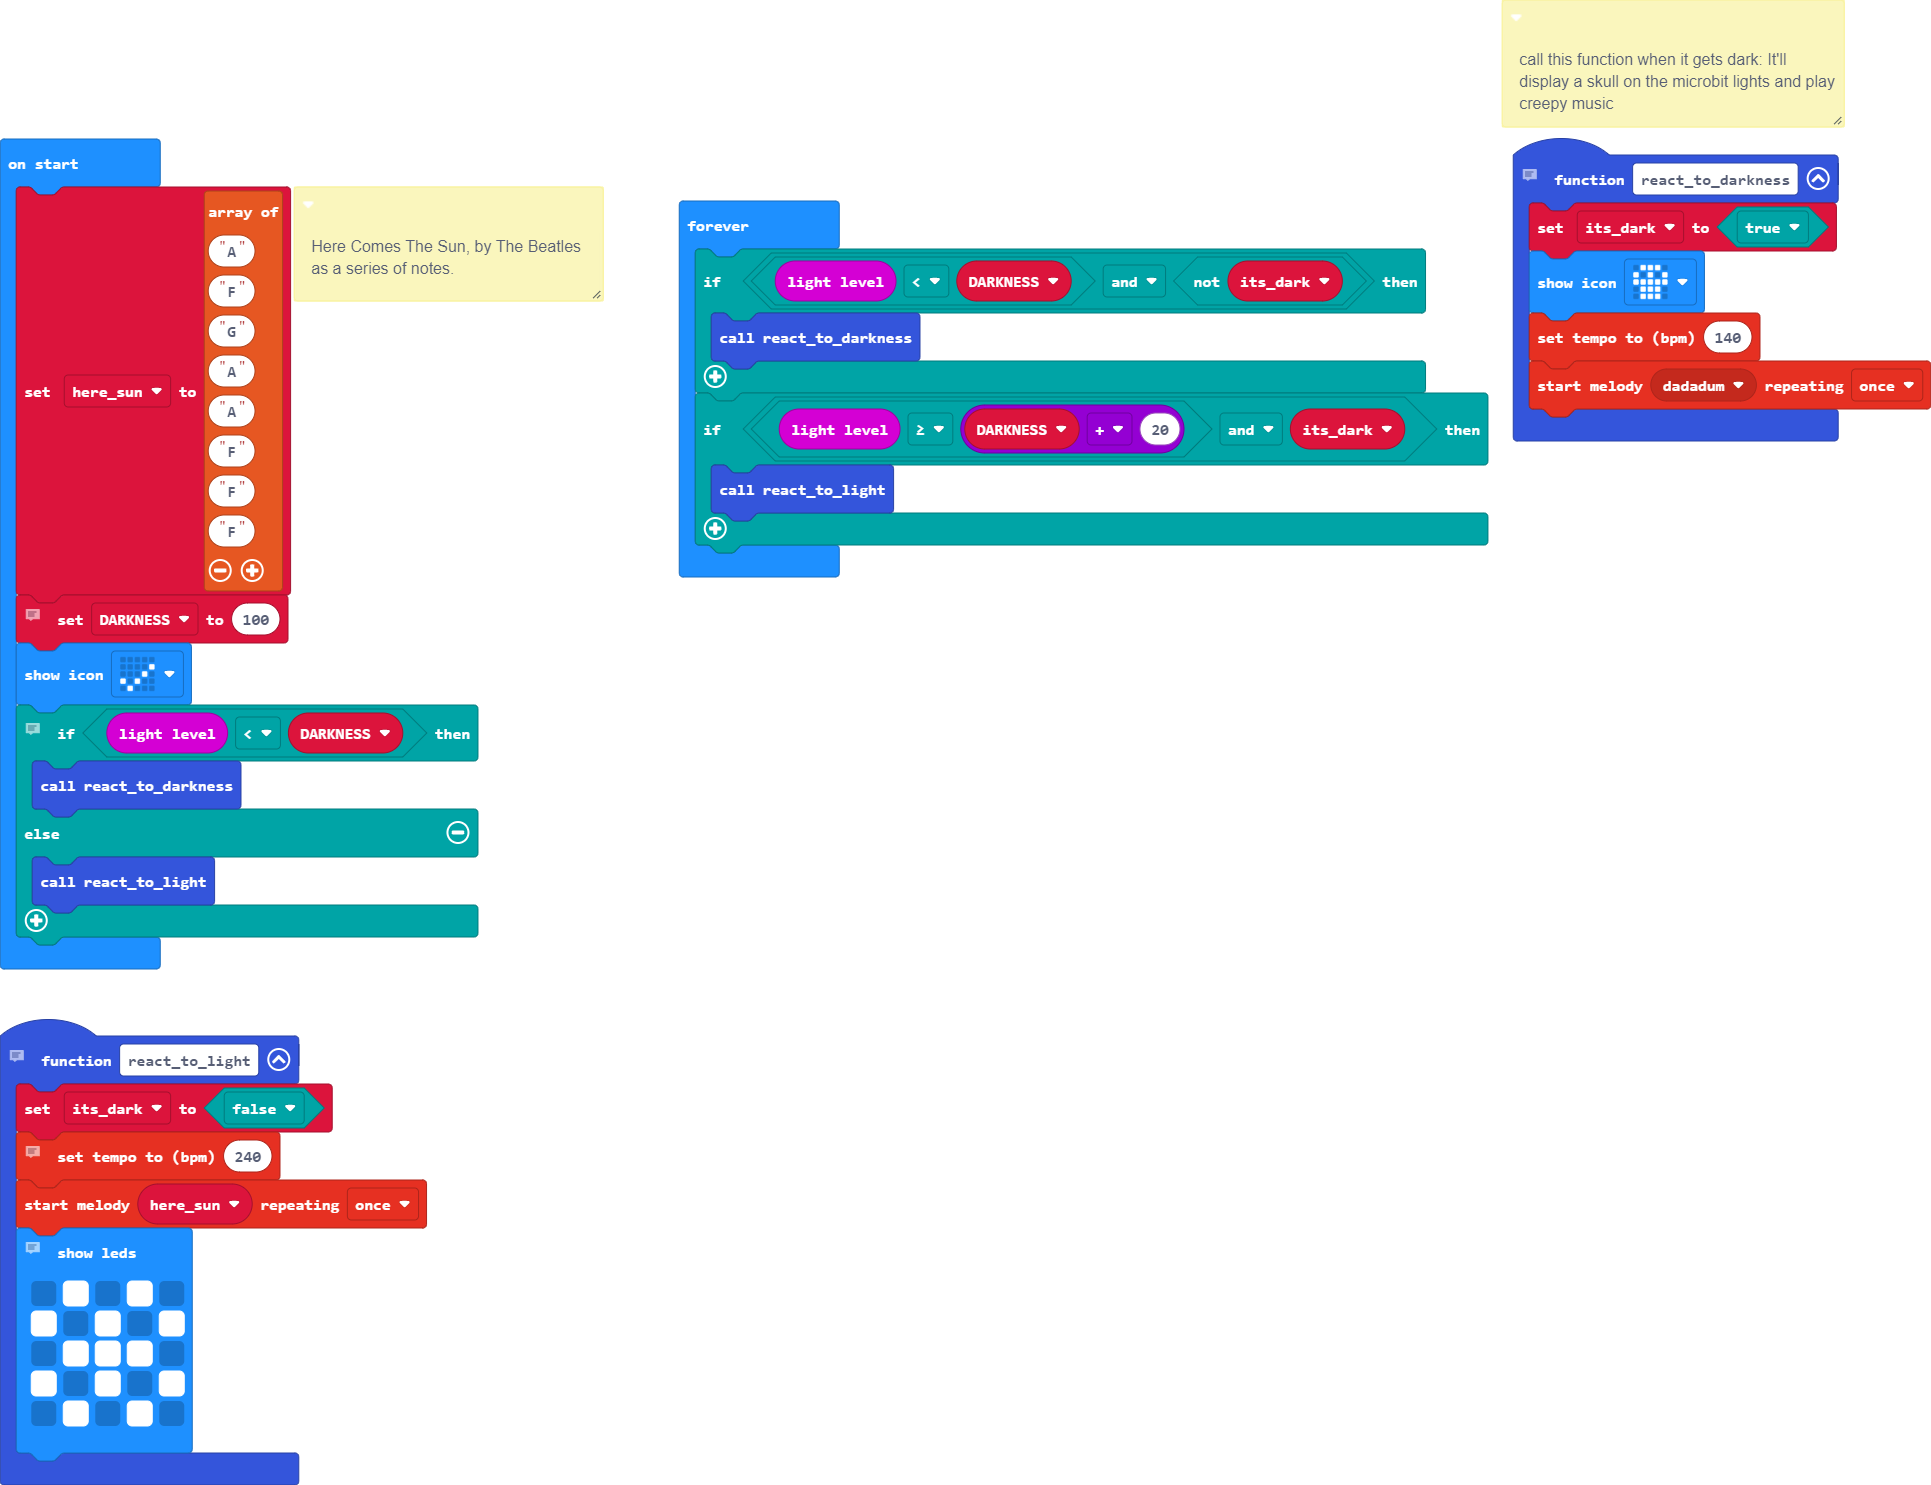
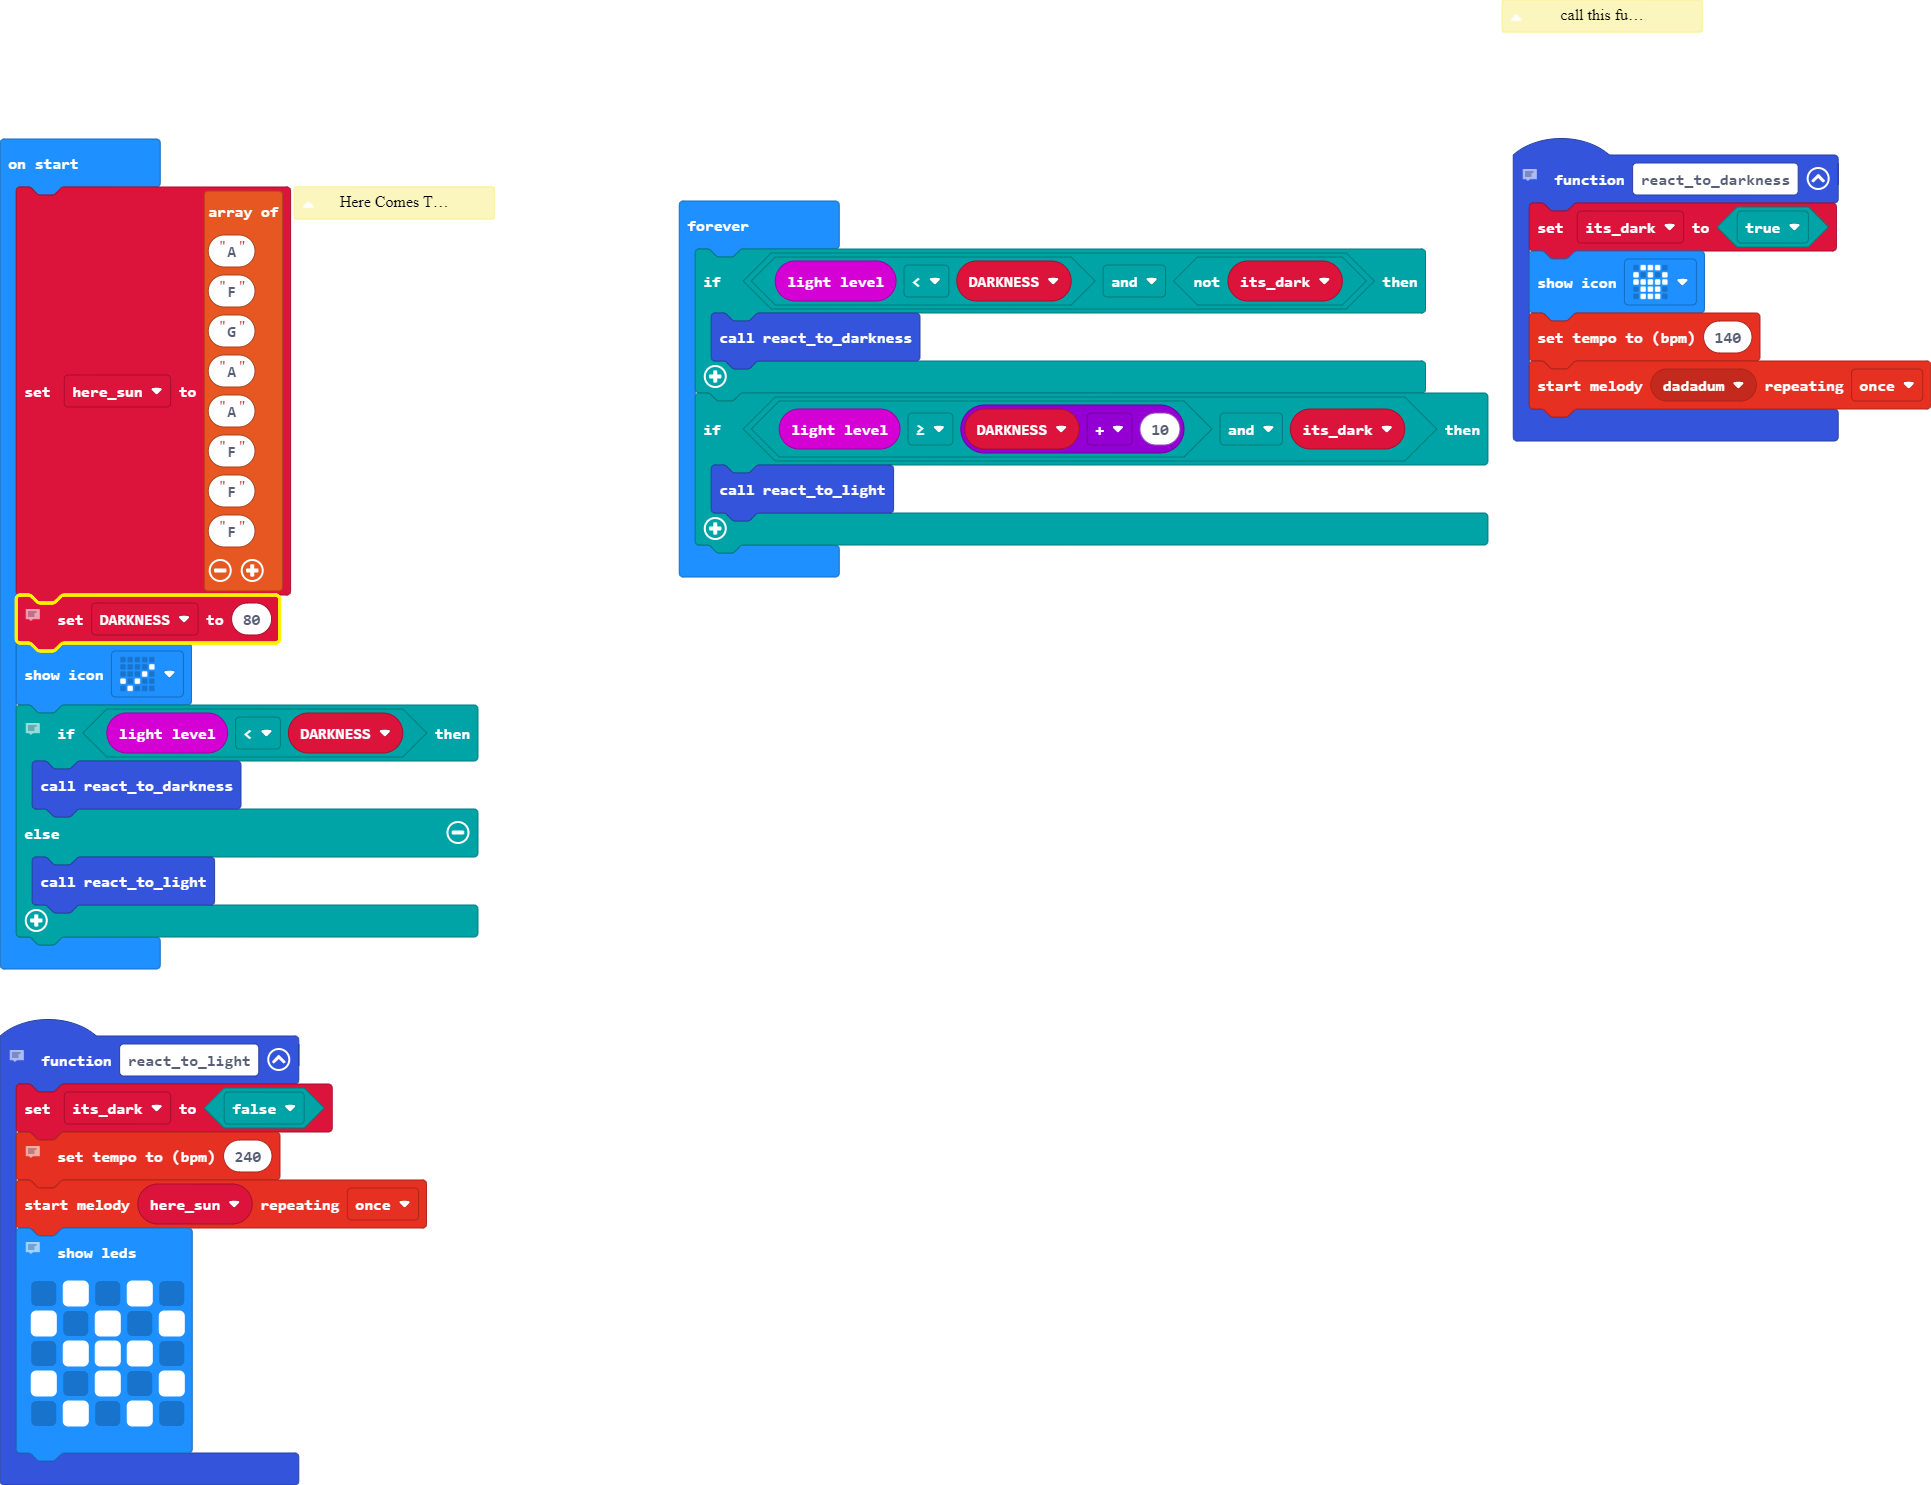
lowered darkness threshold so my laptop light could trigger bright mode

diff --git a/main.ts b/main.ts
@@ -39,7 +39,7 @@ here_sun = [
 "F"
 ]
 // The leds on the MicroBit can check roughly how much light is shining on it. The number it gives you can be between 0 (no light at all) and 255 (a lot of light!). I've set it to 100, a number recommended as a good starting point by the people who made the Microbit. If the dark mode is triggering in bright rooms, lower the number by 10 and try again. If dark mode won't trigger  even in rooms with the light off, you might want to raise it by 10, and try again. Keep going until you find the right level for you.
-let DARKNESS = 100
+let DARKNESS = 80
 basic.showIcon(IconNames.Yes)
 // Figure out if it's dark or light by checking the light sensor.
 if (input.lightLevel() < DARKNESS) {
@@ -51,7 +51,7 @@ basic.forever(function () {
     if (input.lightLevel() < DARKNESS && !(its_dark)) {
         react_to_darkness()
     }
-    if (input.lightLevel() >= DARKNESS + 20 && its_dark) {
+    if (input.lightLevel() >= DARKNESS + 10 && its_dark) {
         react_to_light()
     }
 })
